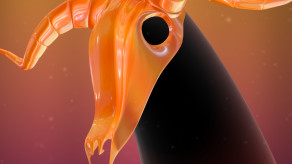
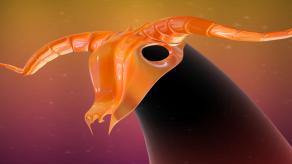
[mask-jade-one] and [mask-horn] finalize for publishing

diff --git a/src/singles/mask-jade-one/index.ts b/src/singles/mask-jade-one/index.ts
@@ -11,15 +11,18 @@ import { createDrawBackground } from "lib/draw/background";
 import { createDrawDust } from "lib/draw/dust";
 import { createDrawLabelQuads } from "lib/draw/label-quads";
 import { createJadeOne } from "./geometry";
+import { setupCanvasFrame } from "lib/draw";
 
 initializeShortcuts();
 
-const regl = initRegl();
+const regl = initRegl({ canvas: setupCanvasFrame() });
 const { mask, body } = createJadeOne();
 const { withMaskModel, drawMask } = createMask(regl, mask);
 const withScene = createWithScene(regl, {
   orbit: {
     distanceBounds: [0.5, 1.98],
+    distance: 1.3,
+    theta: 0.4,
   },
 });
 const drawMaskBody = createDrawMaskBody(regl, body);

diff --git a/src/singles/mask-jade-one/README.md b/src/singles/mask-jade-one/README.md
@@ -1,1 +1,1 @@
-A generative piece featuring a masked one.
+A generative piece featuring a masked one. I [rebuilt this one](/interactive/2017/session-014/) using a new codebase.
